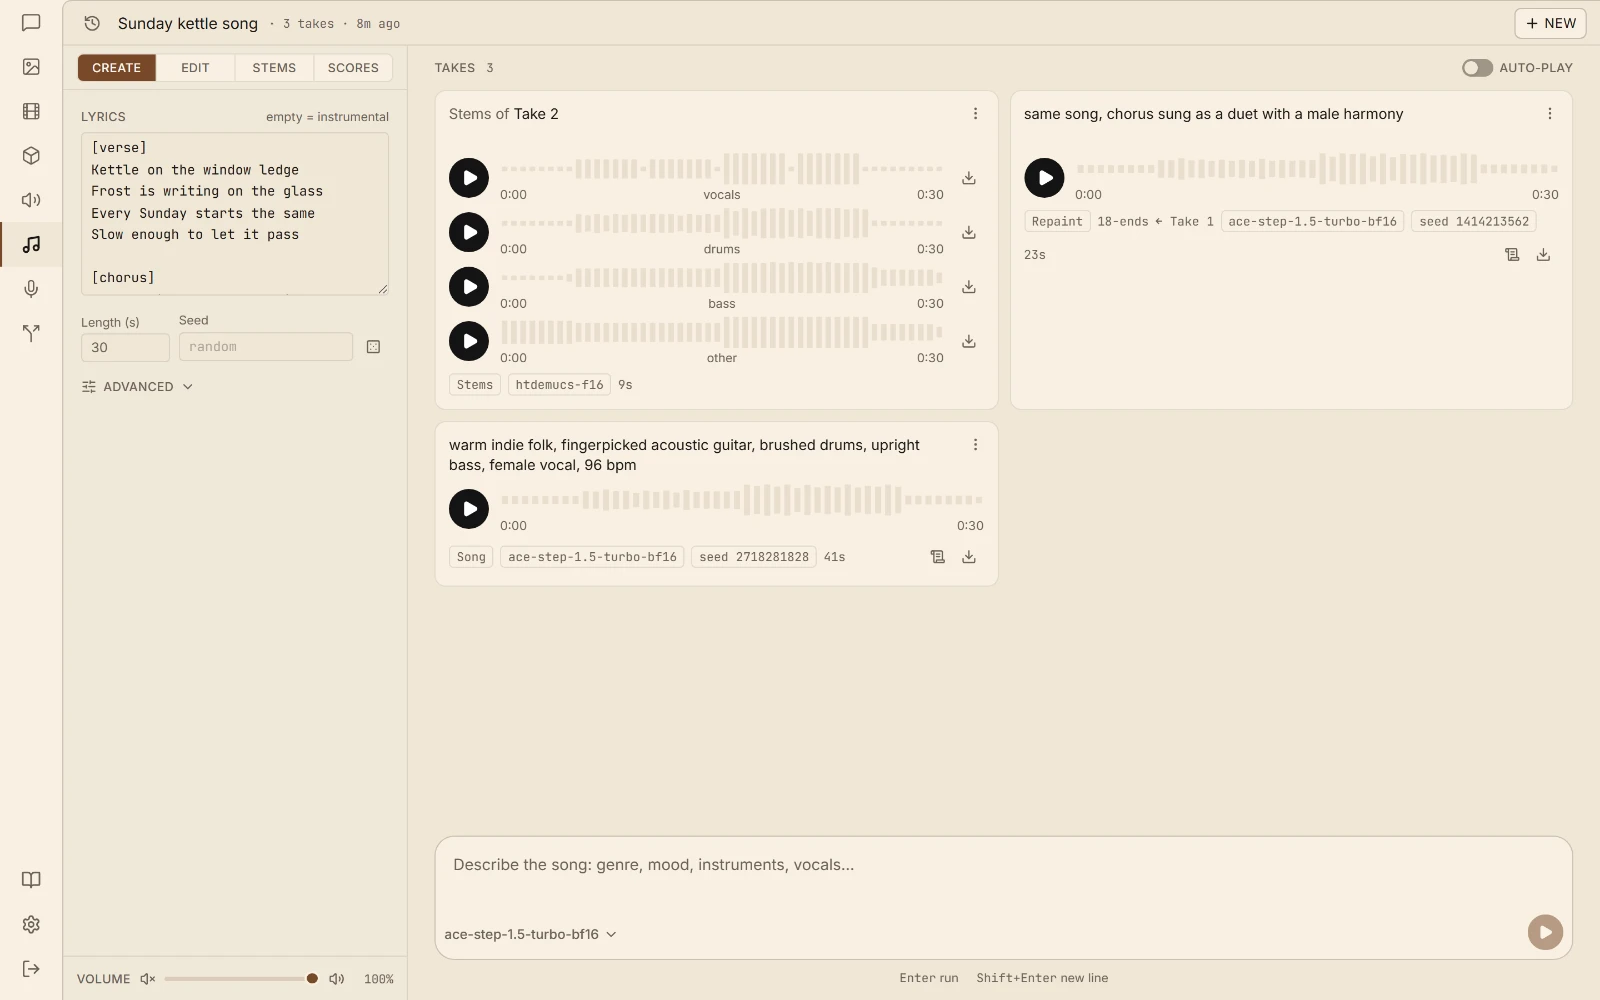
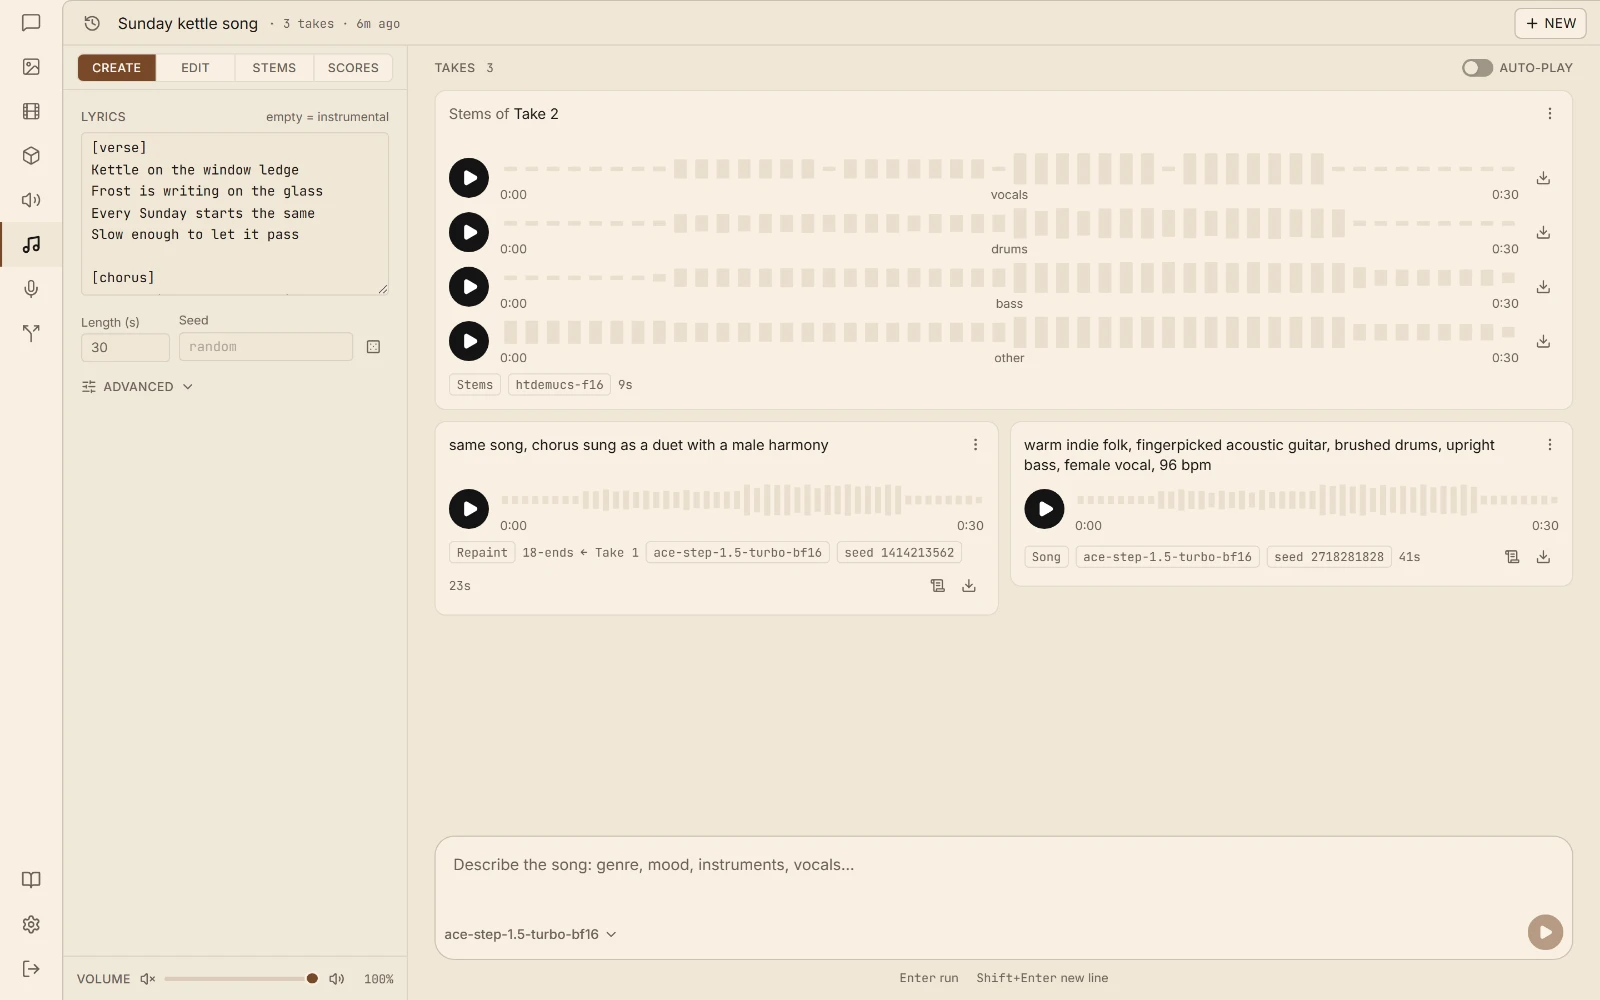
playground: stems take spans the row, cards no longer stretch
The takes grid stretched each card to its row neighbour's height, so a
song next to a four-player stems take was half empty.

- items-start on the takes grid
- a stems take spans both columns on xl
- re-shot pg-music with the fix

diff --git a/ui-svelte/src/components/playground/MusicInterface.svelte b/ui-svelte/src/components/playground/MusicInterface.svelte
@@ -1215,13 +1215,16 @@
               <p>Describe a song below and press Enter. Each take lands here,<br />and any take can be repainted, covered, split into stems or turned into a score.</p>
             </div>
           {:else}
-            <div class="grid grid-cols-1 xl:grid-cols-2 gap-2.5 content-start pb-4">
+            <!-- items-start: a stretched grid row padded the shorter card out to its
+                 neighbour's height, half of it empty. A stems take is four
+                 players tall, so it takes the whole row instead of a column. -->
+            <div class="grid grid-cols-1 xl:grid-cols-2 gap-2.5 content-start items-start pb-4">
               {#each pagedTurns as item (item.ti)}
                 {@const t = item.t}
                 {@const ti = item.ti}
                 {@const done = !!(t.audio || t.stems || (t.task === "transcribe" && t.score))}
                 {@const pending = !done && !t.error && gen?.id === $activeMusicChatId && gen?.ti === ti}
-                <div class="relative min-w-0 rounded-[0.625rem] border border-card-border bg-surface p-3 flex flex-col gap-2 {menuIdx === ti ? 'z-30' : ''}">
+                <div class="relative min-w-0 rounded-[0.625rem] border border-card-border bg-surface p-3 flex flex-col gap-2 {t.stems ? 'xl:col-span-2' : ''} {menuIdx === ti ? 'z-30' : ''}">
                   <p class="text-[0.8125rem] leading-snug text-txtmain whitespace-pre-wrap line-clamp-2 min-h-[2.25rem] pr-6">
                     {#if t.task === "separate"}
                       <span class="text-txtsecondary">Stems of</span> {t.sourceLabel || "a clip"}
